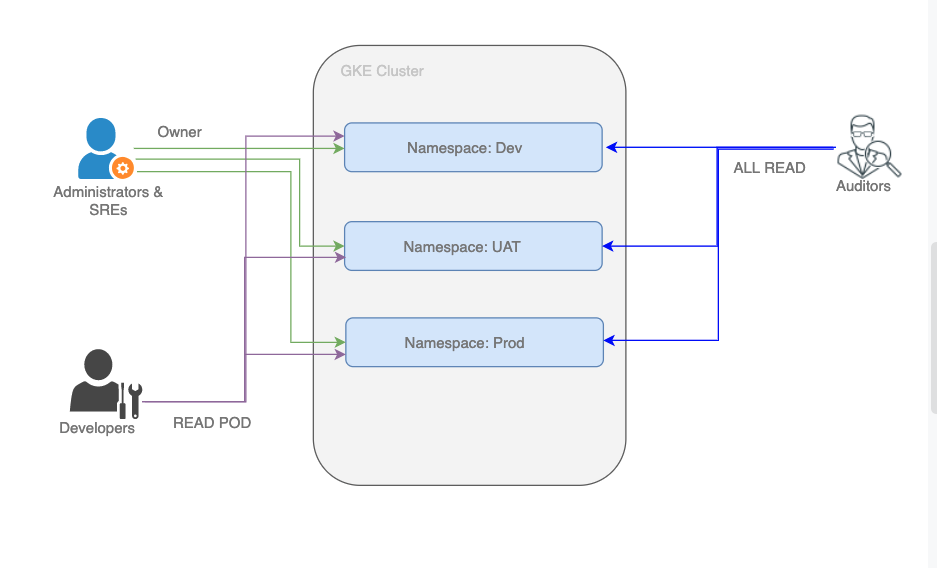
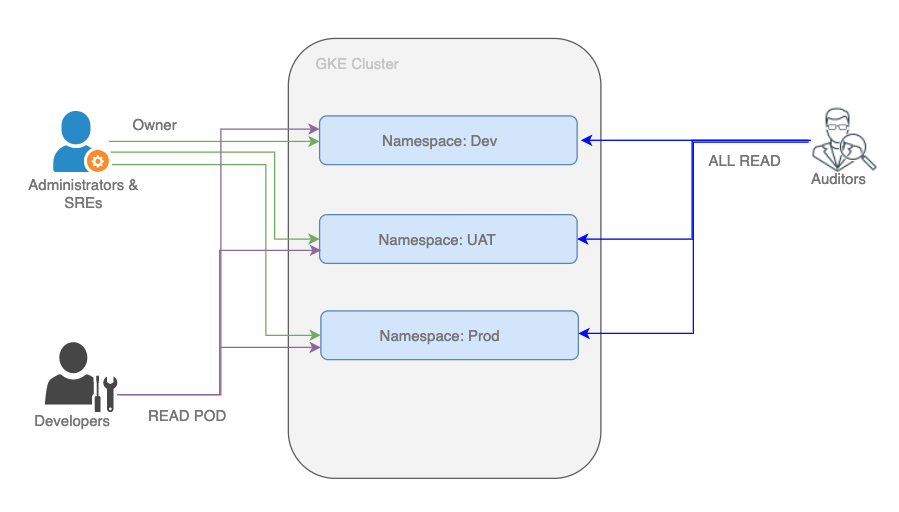
change readme

diff --git a/gke-rbac/README.md b/gke-rbac/README.md
@@ -1,6 +1,6 @@
 # GKE RBAC
 
-This page shows you how to set up Google Groups to work with Kubernetes role-based access control (RBAC) in your Google Kubernetes Engine (GKE) clusters. Using Google Groups for RBAC also lets you integrate with your existing user account management practices, such as revoking access when someone leaves your organization.
+This page shows you how to set up Google Groups to work with Kubernetes role-based access control (RBAC) in your Google Kubernetes Engine (GKE) clusters. Using Google Groups for RBAC also lets you integrate with your existing user account management practices, such as revoking access when someone leaves your organization. We also grant access roles as the group or department as the below image:
 ![Alt text](https://github.com/anhbuicsa/gcp-terraform/blob/master/gke-rbac/images/RBAC.png?raw=true "Title")
 
 
